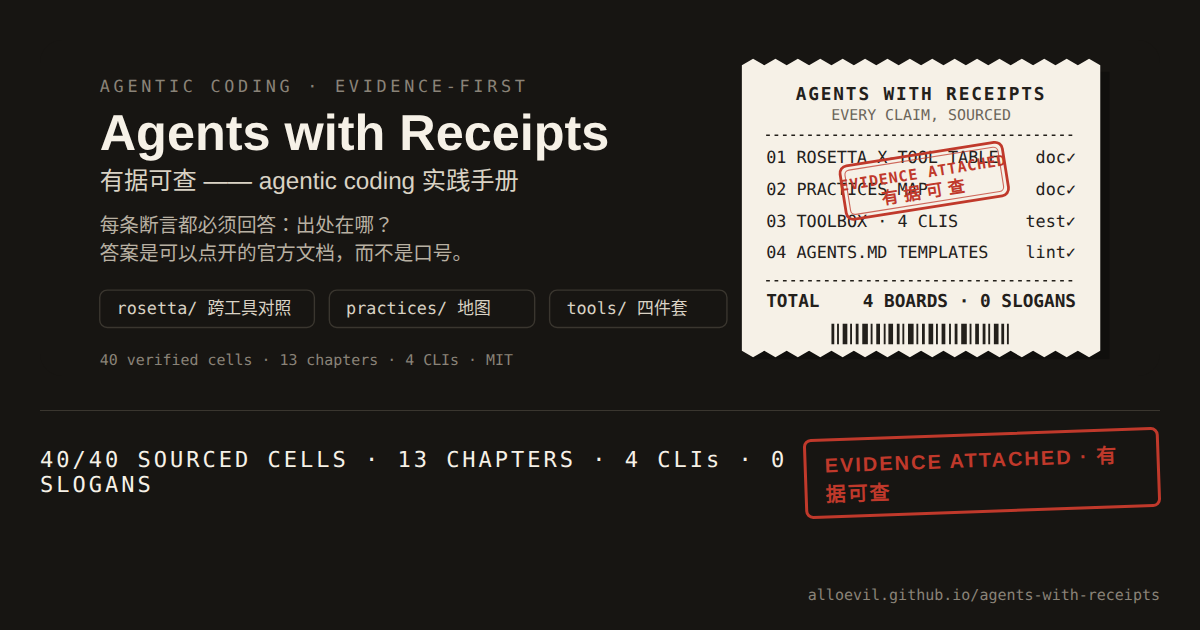
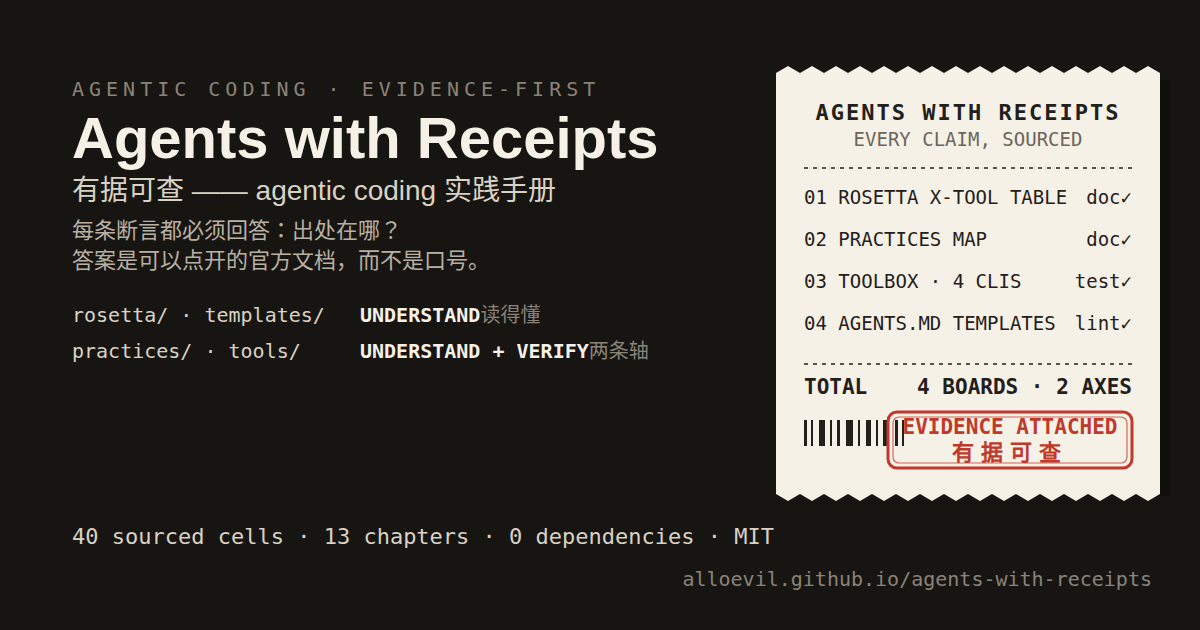
docs(readme): rebuild the hero around the two axes, drop an untraceable figure
The hero named only three of the four parts and never stated the repo's two axes
(understand / verify), and its receipt closed on 'TOTAL 4 BOARDS · 0 SLOGANS' -
nothing in the repository counts slogans. The hero is rebuilt in place: an axis
ledger naming all four module paths, and a ticket that closes on '4 BOARDS · 2
AXES'. The stamp, which overlapped receipt rows 01-02, moved to the free band
under the total; three 16-unit strings were raised to 18+ (they rendered at 12px
in a 900px column). assets/readme/og.svg is added as the editable source for the
social card and og.png is re-rendered from it (the old raster had no source and
repeated both defects). Alt text in README.md / README.zh-CN.md now describes the
new layout. No prose line changed.

diff --git a/index.html b/index.html
@@ -16,7 +16,8 @@
 <meta name="twitter:description" content="agent 读得懂你的仓库吗？验得动自己的工作成果吗？四个零依赖 CLI 直接给答案。">
 <meta name="twitter:image" content="https://alloevil.github.io/agents-with-receipts/assets/readme/og.png">
 <!-- og:image 用的是 PNG 而不是 assets/readme/hero.svg：X / Slack / Facebook 都不渲染 SVG 卡片图，
-     而 hero.svg 是 1200×360，即使能渲染也会被裁掉大半。og.png 由 hero.svg 重排成 1200×630。 -->
+     而 hero.svg 是 1200×360，即使能渲染也会被裁掉大半。og.png 是 assets/readme/og.svg 渲染出的 1200×630，
+     那份 og.svg 又是 hero.svg 的重排（同一套配色、票根与红章）。 -->
 <meta property="og:image" content="https://alloevil.github.io/agents-with-receipts/assets/readme/og.png">
 <meta property="og:image:width" content="1200">
 <meta property="og:image:height" content="630">

diff --git a/README.md b/README.md
@@ -5,7 +5,7 @@ English | [简体中文](README.zh-CN.md)
 **agents-with-receipts** is a handbook plus four zero-dependency CLIs answering two questions: can an agent **understand** your repo, and can it **verify** its own work?
 
 <p align="center">
-  <img src="./assets/readme/hero.svg" width="100%" alt="Agents with Receipts · An evidence-backed agentic coding practices handbook. On the right, a receipt-style ticket lists four boards, stamped with a red 'evidence-backed' seal: TOTAL 4 BOARDS · 0 SLOGANS.">
+  <img src="./assets/readme/hero.svg" width="100%" alt="Agents with Receipts · An evidence-backed agentic coding practices handbook. Left: the two axes and which parts answer them — rosetta/ and templates/ are UNDERSTAND, practices/ and tools/ are UNDERSTAND + VERIFY — above the figures 40 sourced cells · 13 chapters · 0 dependencies · MIT. Right: a receipt-style ticket lists the four boards with the evidence type each one carries (doc/test/lint) and totals 4 BOARDS · 2 AXES, under a red 'EVIDENCE ATTACHED · 有据可查' stamp beside a barcode.">
 </p>
 
 <p align="center">

diff --git a/README.zh-CN.md b/README.zh-CN.md
@@ -5,7 +5,7 @@
 **agents-with-receipts** 是一套实践手册加四个零依赖 CLI，回答两个问题：agent **读得懂**你的仓库吗，agent 在里面**验得动**自己的工作成果吗。
 
 <p align="center">
-  <img src="./assets/readme/hero.svg" width="100%" alt="Agents with Receipts · 有据可查：agentic coding 实践手册。右侧是一张列着四个板块的收据小票，盖着'有据可查'红章：TOTAL 4 BOARDS · 0 SLOGANS。">
+  <img src="./assets/readme/hero.svg" width="100%" alt="Agents with Receipts · 有据可查：agentic coding 实践手册。左侧是两条轴的归属——rosetta/ 与 templates/ 属「读得懂」，practices/ 与 tools/ 覆盖「读得懂 + 验得动」——下面列出规模数字 40 sourced cells · 13 chapters · 0 dependencies · MIT。右侧是一张列着四个板块、每行标出各自凭据类型（doc/test/lint）的收据小票，合计 4 BOARDS · 2 AXES，并在条码旁盖着「EVIDENCE ATTACHED · 有据可查」红章。">
 </p>
 
 <p align="center">
